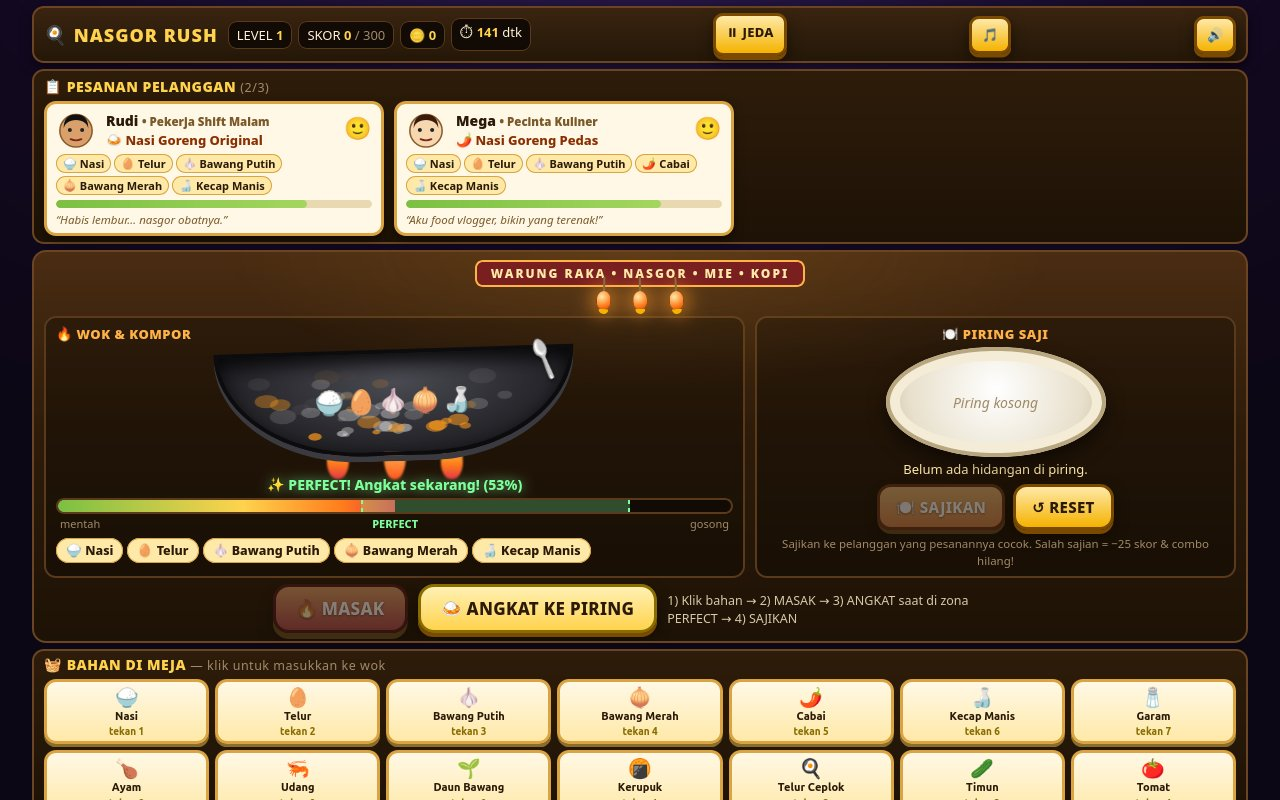
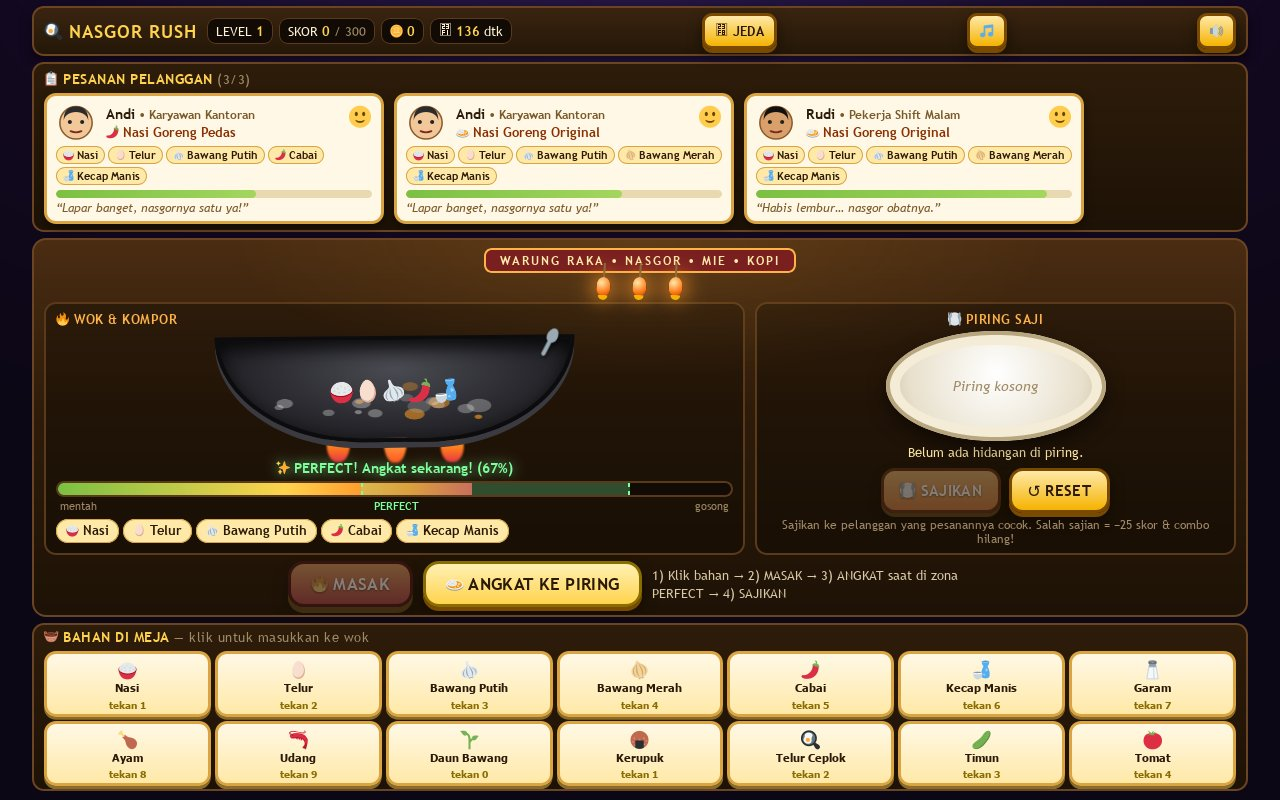
QA fixes: mystery-dish crash, stale coin display, burned status overwrite, 800px fit
- dishHTML: mystery recipe now carries needs:[] + defensive access (was
  TypeError on serving a non-recipe combo)
- stopCookBurned: set status text after renderWok so GOSONG message survives
- closeOverlay re-renders menu so coin balance is fresh after purchases
- Compact layout to exactly 800px height at 1280x800 (all judge-required
  elements in one viewport)
- Regenerated 4 screenshots from the running game

diff --git a/game/style.css b/game/style.css
@@ -211,8 +211,8 @@ body{
 @keyframes sparkle{from{transform:scale(.7) rotate(-10deg); opacity:.6}to{transform:scale(1.2) rotate(12deg); opacity:1}}
 
 /* ---------- INGREDIENT COUNTER ---------- */
-#counter{margin-top:6px; background:linear-gradient(180deg,#2e1c0a,#1d1206); border:2px solid var(--line); border-radius:12px; padding:4px 10px}
-#ingredients{display:grid; grid-template-columns:repeat(7,1fr); gap:5px}
+#counter{margin-top:6px; background:linear-gradient(180deg,#2e1c0a,#1d1206); border:2px solid var(--line); border-radius:12px; padding:3px 10px}
+#ingredients{display:grid; grid-template-columns:repeat(7,1fr); gap:4px}
 .ing{background:linear-gradient(180deg,#fff8e6,#ffe9a8); color:var(--ink); border:3px solid #d9a441; border-radius:12px; padding:3px 4px 2px; cursor:pointer; text-align:center;
   transition:transform .12s ease, box-shadow .12s ease, border-color .12s; box-shadow:0 3px 0 #8a6d2b; user-select:none}
 .ing:hover{transform:translateY(-3px) scale(1.03); border-color:#ff7b1c; box-shadow:0 6px 0 #8a6d2b, 0 8px 14px rgba(0,0,0,.4)}
